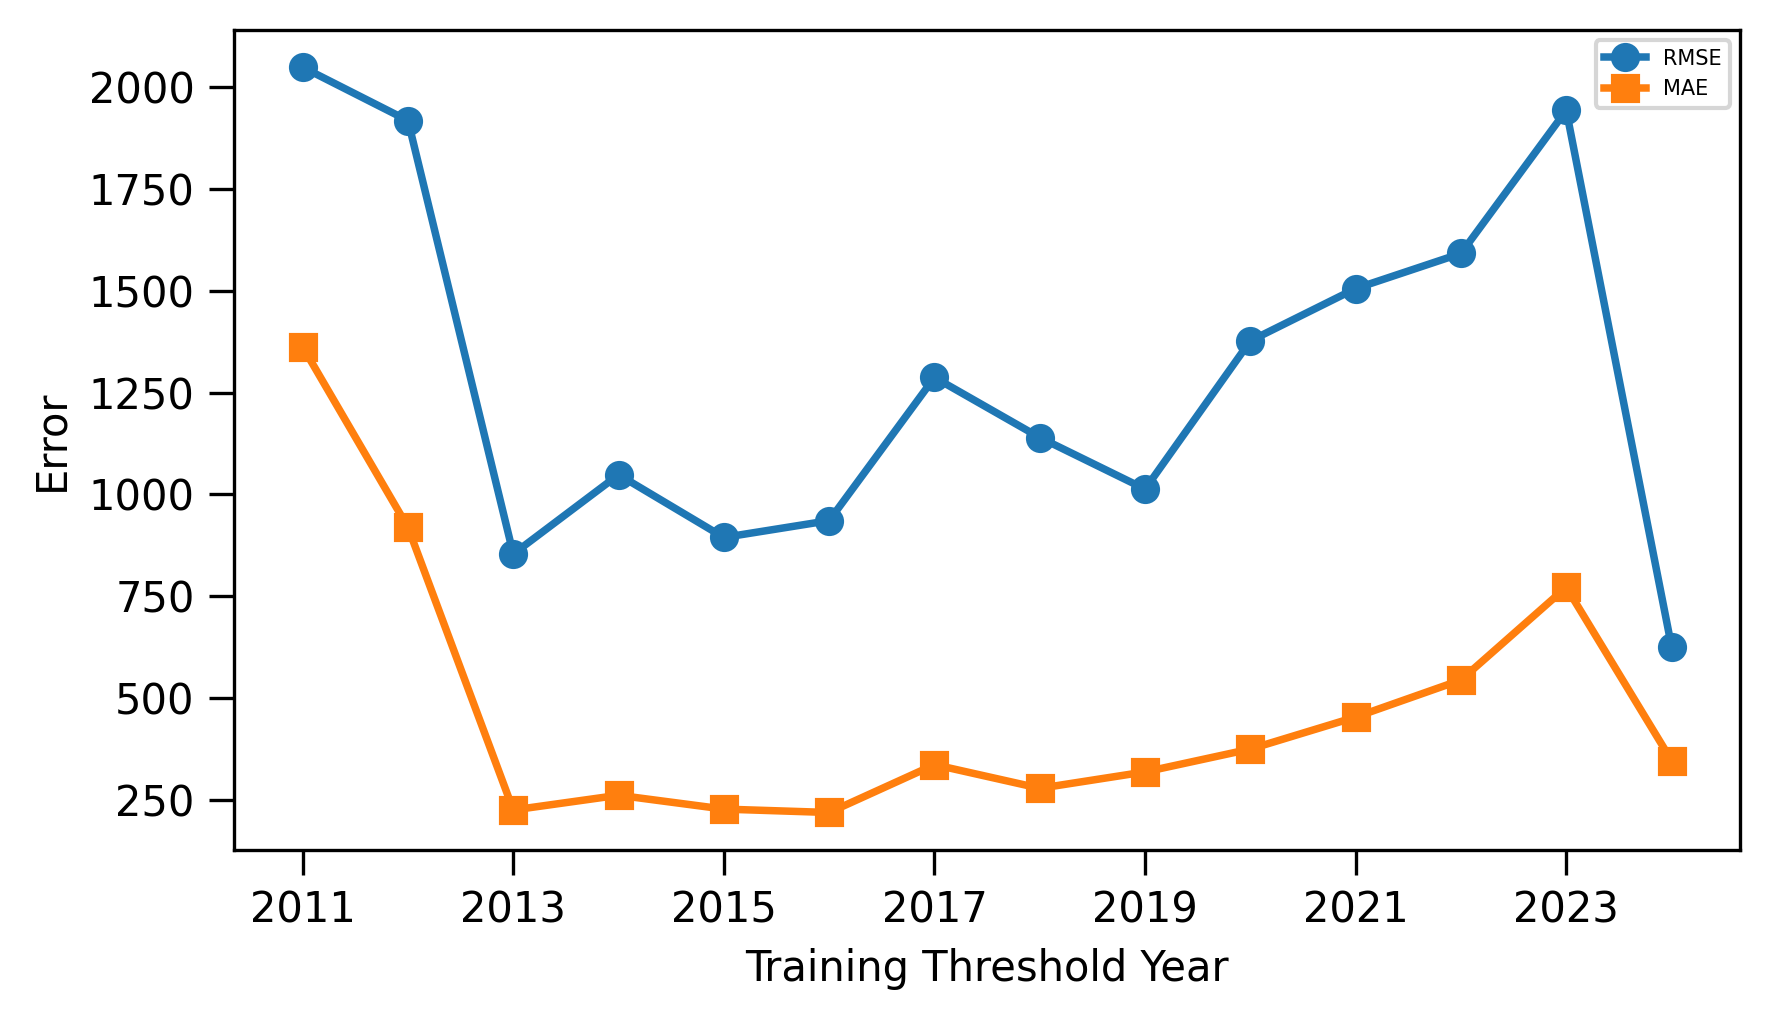
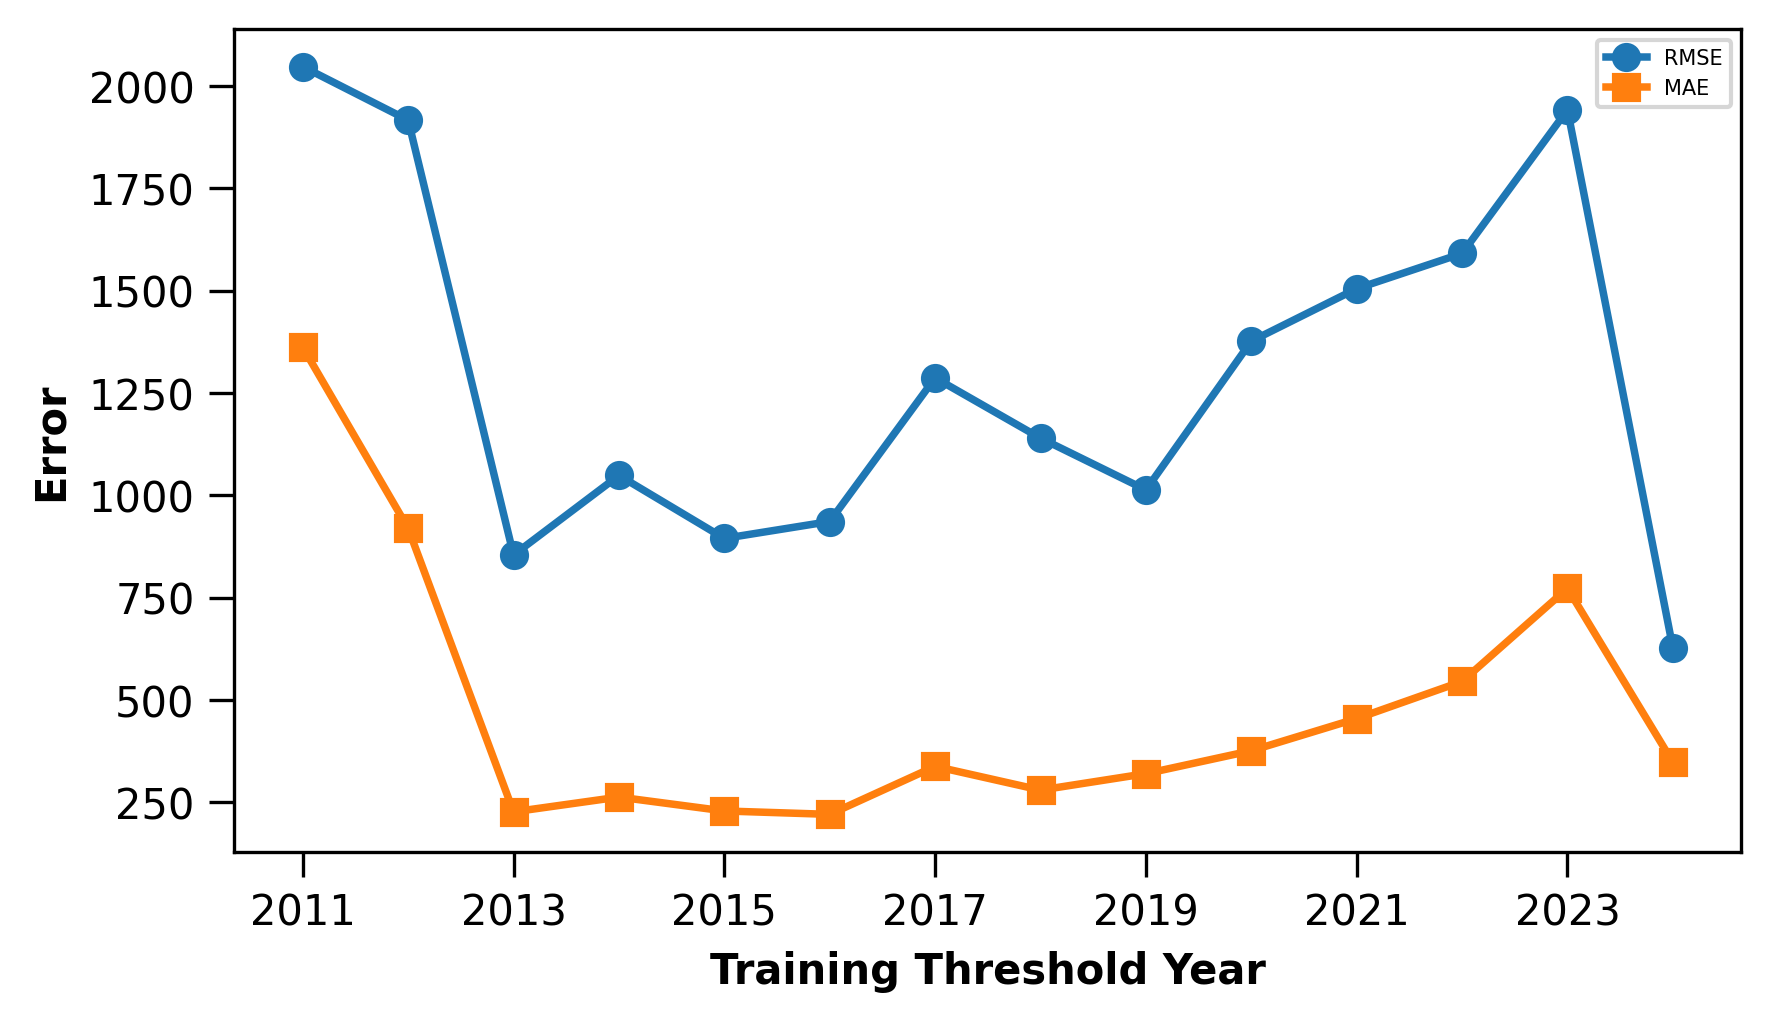
figure update

diff --git a/training_ratio.py b/training_ratio.py
@@ -400,8 +400,8 @@ def main():
     plt.figure(figsize=(6, 3.5), dpi=300)
     plt.plot(thresholds, rmse_scores, marker="o", linewidth=1.8, label="RMSE")
     plt.plot(thresholds, mae_scores, marker="s", linewidth=1.8, label="MAE")
-    plt.xlabel("Training Threshold Year", fontsize=10)
-    plt.ylabel("Error", fontsize=10)
+    plt.xlabel("Training Threshold Year", fontsize=10, fontweight="bold")
+    plt.ylabel("Error", fontsize=10, fontweight="bold")
     plt.title("XGBoost: RMSE and MAE vs Training Threshold", fontsize=12)
     plt.xticks(thresholds[::2] if len(thresholds) > 1 else thresholds)
     plt.tick_params(axis="both", which="both", length=6)
